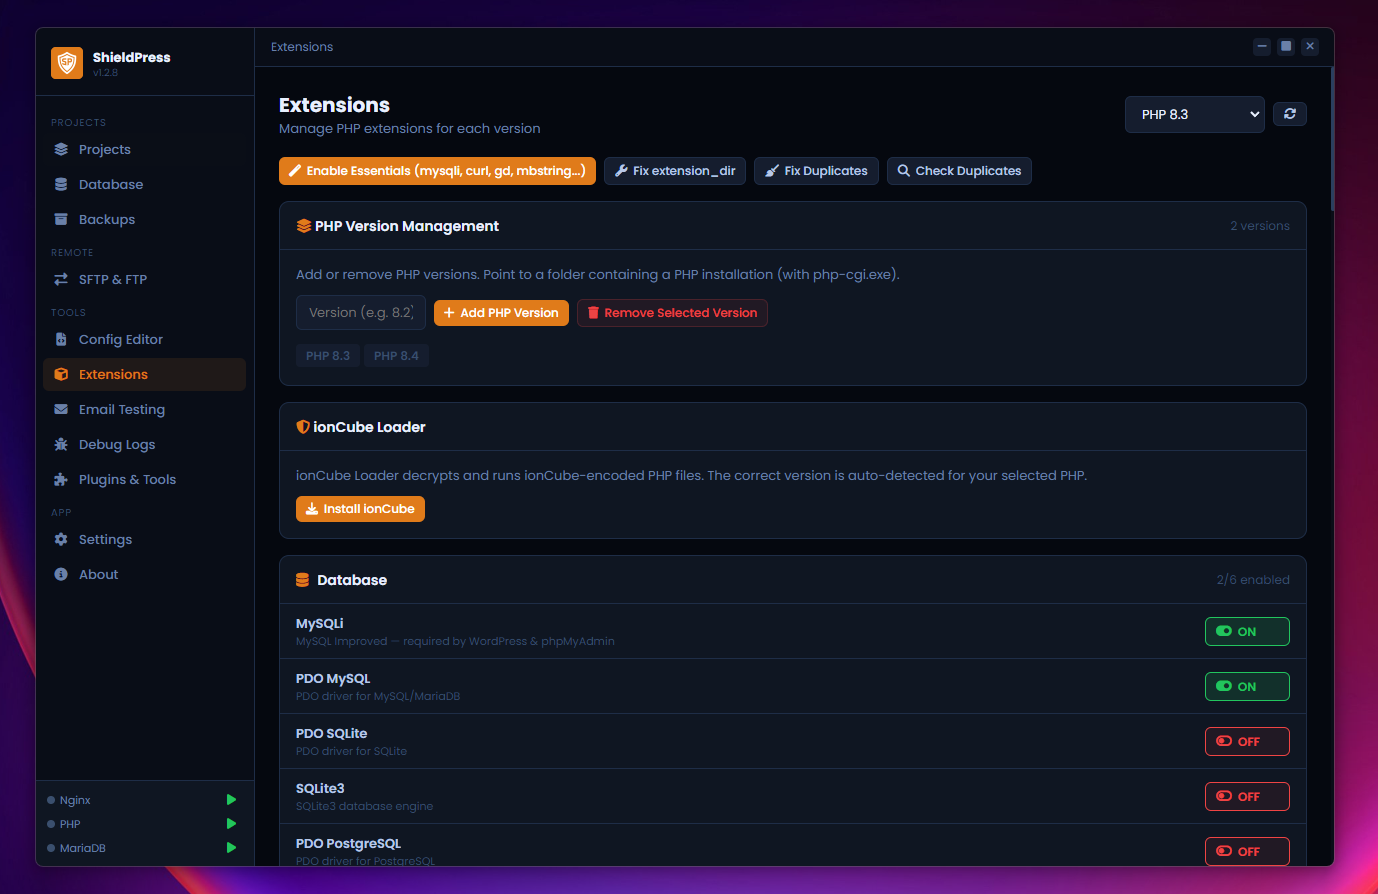
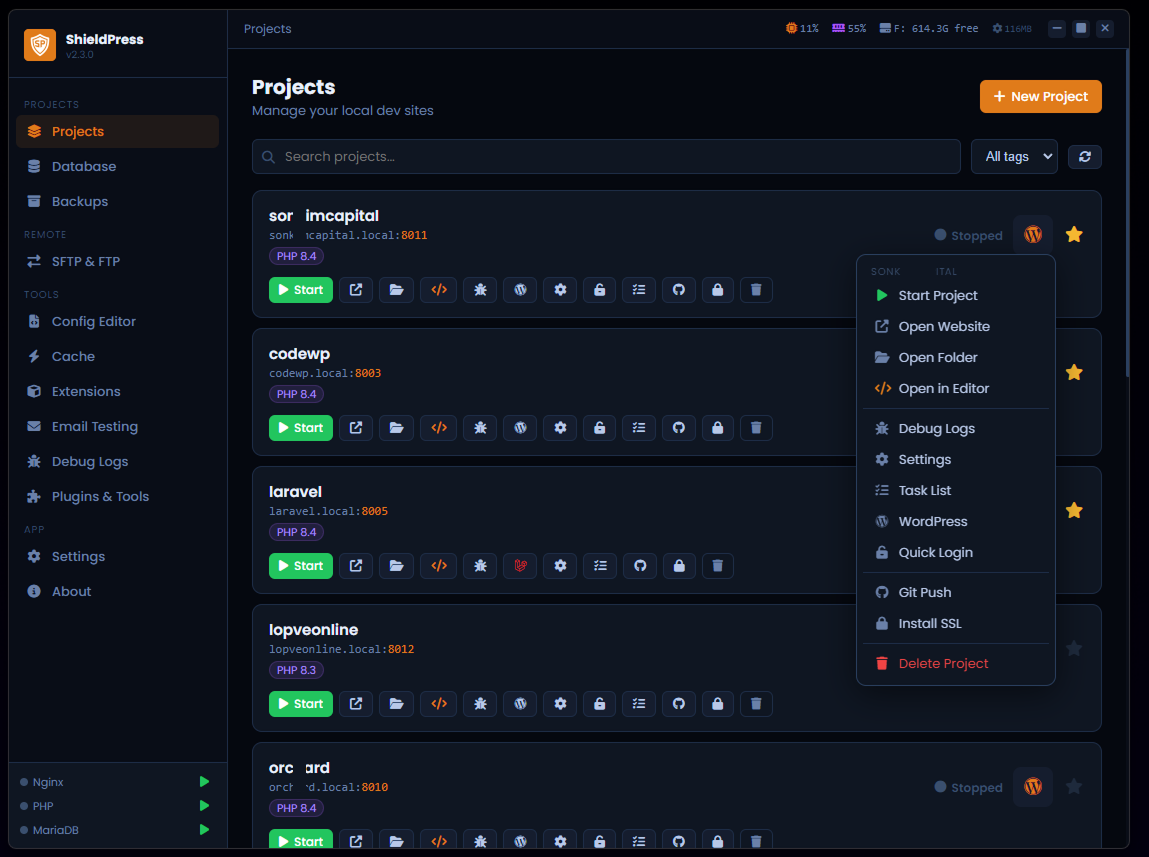
Update version

Changed region(s): [[0.0, 0.0, 1.0, 1.0]]

diff --git a/Version.md b/Version.md
@@ -1,0 +1,155 @@
+# ShieldPress Local — Version History
+
+---
+
+## v2.3.0 — July 21, 2026
+
+### Microsoft Store Compliance
+- **Clean uninstall** — NSIS installer now prompts to remove `ShieldPress_Project` workspace folders on all drives (C/D/E/F) during uninstall, satisfying Microsoft Store policy 10.2.7 (Product Removal)
+- Removed **Google Drive Backup** plugin (not production-ready)
+- Removed **license/activation UI** — all plugins are now free; license system kept in backend for future premium features
+
+### Vietnamese Input Fix (Production Build)
+- Fixed **IME input (Unikey/Telex) not working** in input fields when app is packaged as .exe
+- Root cause: `before-input-event` handler was intercepting keyboard events during IME composition
+- Fix: added `input.isComposing` and `input.key === "Process"` checks to skip IME events
+
+### Disk Monitor Fix
+- Disk usage in titlebar now reflects the drive where **projects are stored** (`PROJECTS_DIR`) instead of the app data drive (`DATA_DIR`)
+- If user sets workspace to D: or F:, the disk info correctly shows that drive's free space
+
+### UI Fix
+- Shutdown overlay: **power-off icon** no longer spins — only the "Stopping services" spinner animates
+
+---
+
+## v2.0.0 — July 1, 2026
+
+### Star / Pin Projects (NEW)
+- New **star icon** on every project card — click to pin a project to the top of the list
+- Starred projects (gold star) always appear first, unstarred projects sorted by creation date
+- Starred state persisted in `project.json` per project
+- Toggle on/off instantly with a single click
+
+### Bug Fixes
+- Fixed **Vietnamese (IME) input** in Task List — `onkeydown` Enter handler now checks `event.isComposing` to avoid submitting during IME composition (Telex/VNI)
+
+---
+
+## v1.1.9 — June 30, 2026
+
+### Open in Editor (NEW)
+- One-click **Open in Editor** button on every project card
+- Auto-detects installed editor: VS Code → Notepad++ → Sublime Text → Notepad (fallback)
+- Configurable custom editor path in **Settings → Code Editor**
+- Browse and select any `.exe` editor of your choice
+
+### UI Improvements
+- Window controls (minimize, maximize, close) moved from sidebar to **top-right titlebar**
+- New **ShieldPress** branding with updated icon and accent color `#e07b1a`
+
+---
+
+## v1.2.8 — June 24, 2026
+
+### Extension Manager — Duplicate Fix & New Features
+- Fixed **duplicate extension lines** in php.ini — `toggleExtension()` now removes ALL existing lines for an extension before adding one clean line, preventing duplicates from accumulating
+- Added **automatic deduplication on startup** — `applyPhpIni()` scans for duplicate extension lines and keeps only one per extension
+- Added **"Fix Duplicates"** button — one-click removal of all duplicate extension lines in php.ini
+- Added **"Check Duplicates"** diagnostic — modal shows exactly which extensions have duplicate lines and on which line numbers
+- Toggle buttons now show **spinner animation** while processing
+
+### Custom Extension Detection
+- Extension Manager now **auto-scans the ext/ directory** for DLLs not in the predefined list
+- Custom extensions appear in a new **"Custom"** category with a CUSTOM badge
+- Custom extensions can be toggled on/off just like built-in ones
+
+### PHP Version Management (NEW)
+- New **"PHP Version Management"** card in Extensions page
+- **Add PHP version** — select a folder containing a PHP installation (with php-cgi.exe) and specify version number (e.g. 8.1, 8.2)
+- **Remove PHP version** — delete a PHP version with confirmation
+- Auto-configures `extension_dir` and `php.ini` for newly added versions
+
+---
+
+## v1.2.7 — June 21, 2026
+
+### Extension Manager — Improved
+- Expanded to **45+ extensions** organized into 10 categories: Database, Core, Image, Archive, Network, i18n, Performance, Debug, Security, Misc
+- Toggle buttons now clearly show **ON** (green) / **OFF** (red) / **Not installed** (gray) — no more ambiguous states
+- Added **"Enable Essentials"** one-click button — enables mysqli, pdo_mysql, curl, openssl, mbstring, fileinfo, gd, zip, intl, exif
+- Added **"Fix extension_dir"** button — resolves duplicate extension_dir issues in php.ini
+- Each extension shows description and ZEND badge where applicable
+
+### Email Testing (NEW)
+- New **Email Testing** page in sidebar under Tools
+- Configure SMTP server: host, port, username, password, from address
+- Send test emails directly from the app with full SMTP log output
+- **PHP `mail()` integration** — saving SMTP config automatically updates `sendmail_path` in php.ini for all PHP versions
+- Bundled `sendmail.js` wrapper handles authenticated SMTP (Gmail, Mailtrap, custom servers)
+- PHP `mail()` function works out of the box after configuration
+
+### SFTP & FTP — Improved
+- FTP now shows **hidden files** (dotfiles like .htaccess, .env, .git) using LIST -a flag
+- **Open in External Editor** — auto-detects VS Code (by full path), Notepad++, Sublime Text; uses `exec()` instead of `spawn()` to avoid ENOENT errors with batch scripts
+- **Drag & drop upload** — drag files from Windows Explorer into the file browser to upload
+- **Overwrite confirmation** — asks before overwriting existing files on upload (shows current file size)
+- **Remember last directory** — reopening file browser restores your previous location per connection
+- SSH Terminal: improved UI with embedded terminal look, **command history** (Up/Down arrows), **25+ quick commands** organized by category, `clear`/`cls` support
+
+### Data Persistence
+- NSIS installer now **preserves Data Directory** setting (`portable.txt`) during upgrades — no more losing your workspace path after reinstall
+
+### Bug Fixes — mysqli
+- Fixed **"mysqli PHP extension is not installed"** error in phpMyAdmin
+- Root cause: duplicate `extension_dir` lines in php.ini (second line overriding with relative path) and `extension=mysqli` commented out in PHP 8.4
+- Fix: `applyPhpIni()` now removes all `extension_dir` duplicates and auto-enables 8 essential extensions (mysqli, pdo_mysql, curl, openssl, mbstring, fileinfo, gd, zip) on startup
+
+### Bug Fixes — General
+- Fixed `spawn code ENOENT` crash when opening files in external editor — VS Code's `code` command is a `.cmd` batch script, switched from `spawn()` to `exec()`
+- Removed unsafe `for /f` shell command in stopPhpCgi
+- Font **Poppins** and **FontAwesome 6.5** bundled offline — `@import` moved to top of CSS to fix icons not loading
+
+---
+
+## v1.2.6 — June 21, 2026
+
+### Upload & Performance
+- Default upload limit increased to **10G** (was 64M per project, 2G global)
+- Fixed upload limit changes **requiring app restart** to take effect — now applies instantly
+
+### Project Management
+- Project directory now named after **domain** instead of `proj_timestamp` — e.g. `shieldpress.net` → folder `shieldpress_net`
+- Special characters and diacritics stripped from directory names
+- Auto-appends suffix to avoid name conflicts
+
+### Localization
+- Fixed **Task List unable to save Vietnamese (Unicode) text** — switched to explicit UTF-8 file read/write
+
+### phpMyAdmin
+- Auto-starts **PHP + MariaDB + Nginx** when opening phpMyAdmin if services are not running — no more 502 errors
+
+### Extension Manager (NEW)
+- New **Extensions** page in sidebar
+- Toggle PHP extensions on/off
+- Install ionCube Loader automatically per PHP version
+
+### SFTP & FTP Manager (NEW)
+- Full SFTP (SSH) and FTP client with file browser, upload/download, delete, inline editor
+- SSH Terminal with full command support
+- Sync upload/download with folder picker and exclude paths
+- Passwords encrypted with AES-256-GCM
+- Connection linked to projects
+
+### Fonts & Offline Support
+- Poppins font and FontAwesome 6.5 bundled offline
+
+---
+
+## v1.2.5
+
+- Initial public release
+- Multi-site support, WordPress/Laravel install
+- WP-CLI, Debug Logs, Backup/Restore
+- SSL via mkcert, Plugin system
+- Task List per project

diff --git a/README.md b/README.md
@@ -19,11 +19,11 @@
 
 ## Download
 
-**[Download Latest Version (v2.2.1)](https://github.com/vithanhlam/shieldpress-local/releases/latest)**
+**[Download Latest Version (v2.3.0)](https://github.com/vithanhlam/shieldpress-local/releases/latest)**
 
 | File | Description |
 | ---- | ----------- |
-| `ShieldPress Local Setup 2.2.0.exe` | Installer (recommended) |
+| `ShieldPress Local Setup 2.3.0.exe` | Installer (recommended) |
 
 ---
 
@@ -90,6 +90,9 @@ It comes bundled with everything you need: **Nginx**, **PHP 8.3/8.4**, **MariaDB
 | **ionCube Loader** | Auto-install ionCube for any PHP version |
 | **Enable Essentials** | One-click enable mysqli, curl, gd, mbstring and more |
 | **Email Testing** | Configure SMTP and send test emails — PHP `mail()` works after setup |
+| **Cache Management** | OPcache status, WP cache flush, project cache cleanup, nginx log clear |
+| **Git Push** | Push to GitHub, pull, custom git commands, clone repos |
+| **System Monitor** | Real-time CPU, RAM, Disk usage in titlebar |
 
 ---
 
@@ -104,7 +107,7 @@ It comes bundled with everything you need: **Nginx**, **PHP 8.3/8.4**, **MariaDB
 
 ## Installation
 
-1. Download `ShieldPress Local Setup 2.2.0.exe` from [Releases](https://github.com/vithanhlam/shieldpress-local/releases)
+1. Download `ShieldPress Local Setup 2.3.0.exe` from [Releases](https://github.com/vithanhlam/shieldpress-local/releases)
 2. Run the installer and follow the wizard
 3. Choose where to store your project data when prompted
 4. Launch **ShieldPress Local** from your desktop shortcut
